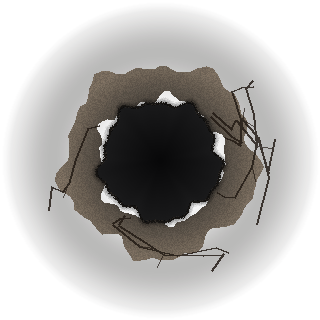
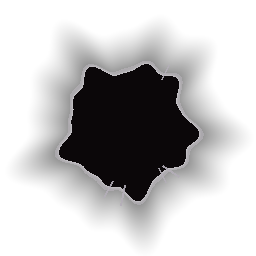
Move the shot tape off the total and replace the hole art.
The old orange-dot and connector look is gone. Three gray punched holes sit in the empty gaps, and one caution strip stays in the top-right corner, clear of the name, total, and points. The SET chip next to Took is gone on a shot.

diff --git a/apps/web/src/styles.css b/apps/web/src/styles.css
@@ -705,26 +705,22 @@ select { background: #170d27; color: var(--ink); border: 1px solid rgba(185,128,
 .tt-recap { display: flex; flex-direction: column; justify-content: center; gap: 16px; width: min(520px, 100%); }
 .tt-team { position: relative; padding: 18px 16px 16px; background: rgba(255,255,255,.05); box-shadow: inset 0 0 0 1px rgba(185,128,255,.2); clip-path: polygon(10px 0, 100% 0, calc(100% - 10px) 100%, 0 100%); }
 .tt-face { display: grid; grid-template-columns: minmax(0, 1fr) auto; grid-template-areas: "name total" "line total" "players total" "bar bar"; align-items: center; gap: 8px 16px; position: relative; z-index: 5; }
-/* On-notice shot card: dim the face, red border, raster holes, then the tape X. Full fidelity at every width, including 360–390. */
+/* On-notice shot card: dim the face, red border, three raster holes, then the corner tape. Full fidelity at every width, including 360–390. */
 .tt-team > :not(.shot-holes):not(.caution-x):not(.shroud) { position: relative; z-index: 5; }
 .tt-team.taped { clip-path: none; overflow: visible; }
 .tt-team.notice, .tt-team.mine.notice { clip-path: none; overflow: visible; border: 1px solid #FF4D4D; box-shadow: none; }
 .tt-team.notice .tt-face { filter: brightness(.85); }
-.tt-team.notice.tape-in { animation: hole-jolt 90ms linear 0ms, hole-jolt 90ms linear 90ms, hole-jolt 90ms linear 180ms, hole-jolt 90ms linear 270ms; }
+.tt-team.notice.tape-in { animation: hole-jolt 90ms linear 0ms, hole-jolt 90ms linear 90ms, hole-jolt 90ms linear 180ms; }
 @keyframes hole-jolt { 0%, 100% { transform: translate3d(0, 0, 0); } 45% { transform: translate3d(3px, 0, 0); } }
 .shot-holes { position: absolute; inset: 0; z-index: 1; pointer-events: none; }
-.shot-holes img { position: absolute; width: 34px; height: 34px; transform: translate(-50%, -50%); pointer-events: none; }
+.shot-holes img { position: absolute; width: 32px; height: 32px; transform: translate(-50%, -50%) rotate(var(--rot, 0deg)) scale(var(--s, 1)); pointer-events: none; }
 .tt-team.notice.tape-in .shot-holes img { animation: hole-punch 120ms cubic-bezier(.2, .8, .2, 1) both; }
-@keyframes hole-punch { 0% { opacity: 0; transform: translate(-50%, -50%) scale(1.4); } 12% { opacity: 1; transform: translate(-50%, -50%) scale(1.32); } 100% { opacity: 1; transform: translate(-50%, -50%) scale(1); } }
-.caution-x { position: absolute; z-index: 4; inset: -8px; pointer-events: none; filter: drop-shadow(0 2px 2px rgba(0,0,0,.4)); }
-.caution-x .tape { position: absolute; left: 50%; top: 50%; width: 104%; height: 34px; object-fit: cover; transform-origin: center center; }
-.caution-x .tape.a { transform: translate(-50%, -50%) rotate(-12deg); }
-.caution-x .tape.b { transform: translate(-50%, -50%) rotate(12deg); }
-.tt-team.tape-in .caution-x .tape { animation-duration: 260ms; animation-timing-function: cubic-bezier(.2, 1.3, .3, 1); animation-delay: 390ms; animation-fill-mode: both; }
-.tt-team.tape-in .caution-x .tape.a { animation-name: tape-slap-a; }
-.tt-team.tape-in .caution-x .tape.b { animation-name: tape-slap-b; }
-@keyframes tape-slap-a { from { opacity: 0; transform: translate(-50%, -50%) rotate(-20deg) scale(1.15); } to { opacity: 1; transform: translate(-50%, -50%) rotate(-12deg) scale(1); } }
-@keyframes tape-slap-b { from { opacity: 0; transform: translate(-50%, -50%) rotate(20deg) scale(1.15); } to { opacity: 1; transform: translate(-50%, -50%) rotate(12deg) scale(1); } }
+@keyframes hole-punch { 0% { opacity: 0; transform: translate(-50%, -50%) rotate(var(--rot, 0deg)) scale(calc(var(--s, 1) * 1.4)); } 12% { opacity: 1; transform: translate(-50%, -50%) rotate(var(--rot, 0deg)) scale(calc(var(--s, 1) * 1.28)); } 100% { opacity: 1; transform: translate(-50%, -50%) rotate(var(--rot, 0deg)) scale(var(--s, 1)); } }
+/* One strip across the top-right corner. It hangs off the card and stays above the name, the total, and the points. */
+.caution-x { position: absolute; z-index: 4; top: -8px; right: -8px; width: 30%; height: 14px; opacity: 0.95; pointer-events: none; transform: rotate(-6deg); transform-origin: 100% 0; filter: drop-shadow(0 2px 2px rgba(0,0,0,.4)); }
+.caution-x .tape { display: block; width: 100%; height: 100%; object-fit: cover; }
+.tt-team.tape-in .caution-x { animation: tape-slap 260ms cubic-bezier(.2, 1.3, .3, 1) 300ms both; }
+@keyframes tape-slap { from { opacity: 0; transform: rotate(8deg) scale(1.15); } to { opacity: 0.95; transform: rotate(-6deg) scale(1); } }
 /* Tape after a non-losing shot, off once they make their books. A hand-1 loss shows the tape and the sheet.
    Later eliminations are the sheet alone. RIP, the police lights, and the time-of-death caption stay at full fidelity at every width, including 360–390. */
 .shroud {
@@ -791,10 +787,10 @@ select { background: #170d27; color: var(--ink); border: 1px solid rgba(185,128,
 .tt-team.shrouded .tt-line b.neg { color: #8e2436; }
 .tt-team.shrouded .tt-line b.pos { color: #1c6a34; }
 .tt-team.shrouded .tt-players { color: #4a382c; }
-.tt-recap.crowded .caution-x .tape { height: 24px; }
+.tt-recap.crowded .caution-x { height: 16px; width: 42%; }
 .tt-recap.crowded .shot-holes img { width: 28px; height: 28px; }
 @keyframes sheet-drop { 0% { opacity: 0; transform: translate3d(0, -108%, 0); } 100% { opacity: 1; transform: none; } }
-@media (prefers-reduced-motion: reduce) { .tt-team.notice.tape-in, .tt-team.tape-in .caution-x .tape, .tt-team.notice.tape-in .shot-holes img, .tt-team.sheet-in .shroud { animation: none; } }
+@media (prefers-reduced-motion: reduce) { .tt-team.notice.tape-in, .tt-team.tape-in .caution-x, .tt-team.notice.tape-in .shot-holes img, .tt-team.sheet-in .shroud { animation: none; } }
 @media (prefers-reduced-motion: reduce) { .tod span { animation: none; opacity: 1; } }
 .tt-team.mine { background: rgba(245,197,66,.08); box-shadow: inset 3px 0 0 var(--gold), inset 0 0 0 1px rgba(245,197,66,.25); }
 .tt-team-name { grid-area: name; display: flex; flex-direction: column; gap: 4px; }

diff --git a/apps/web/src/Intermission.tsx b/apps/web/src/Intermission.tsx
@@ -45,14 +45,14 @@ export function calloutsFor(st: GameState, mySide: number, names: string[]): Cal
 }
 
 /**
- * Four punched holes in the lower-left clear space: below the bid line, left of the total.
- * Raster art in /shot/hole.png (original, no third-party license).
+ * Three punched holes in empty card space. Raster art in /shot/hole.png
+ * (original render, no third-party illustration). Rotation and scale are fixed
+ * per slot so a reconnect does not reshuffle them.
  */
-const HOLES: readonly (readonly [string, string])[] = [
-  ['10%', '86%'],
-  ['26%', '90%'],
-  ['42%', '84%'],
-  ['56%', '88%'],
+const HOLES: readonly { x: string; y: string; rot: number; scale: number }[] = [
+  { x: '60%', y: '28%', rot: -14, scale: 0.88 }, // gap between the name and the total
+  { x: '11%', y: '93%', rot: 18, scale: 0.85 },  // lower-left, at the start of the bar
+  { x: '88%', y: '72%', rot: 6, scale: 0.85 },   // mid-right, under the total
 ];
 
 export function Intermission({
@@ -111,7 +111,7 @@ export function Intermission({
   useEffect(() => {
     if (!noticeIn || punched.current === sirenKey) return;
     punched.current = sirenKey;
-    haptic([30, 60, 30, 60, 30, 60, 30, 90, 60], 'shot-card');
+    haptic([30, 60, 30, 60, 30, 90, 60], 'shot-card');
   }, [noticeIn, sirenKey]);
 
   return (
@@ -161,8 +161,8 @@ export function Intermission({
                 <div key={s.side} className={`tt-team${s.side === mySide ? ' mine' : ''}${shot ? ' blast' : ''}${cover.tape ? ' taped' : ''}${cover.tape && justShot ? ' tape-in' : ''}${notice ? ' notice' : ''}${cover.sheet ? ' shrouded' : ''}${cover.sheet && justShot ? ' sheet-in' : ''}`} data-testid={`recap-side-${s.side}`} data-blast={shot ? 'yes' : 'no'} data-tape={cover.tape ? 'yes' : 'no'} data-sheet={cover.sheet ? 'yes' : 'no'} data-siren={cover.siren ? 'yes' : 'no'}>
                   {notice && (
                     <div className="shot-holes" data-testid={`recap-holes-${s.side}`} aria-hidden="true">
-                      {HOLES.map(([x, y], i) => (
-                        <img key={i} src="/shot/hole.png" alt="" style={{ left: x, top: y, animationDelay: `${i * 90}ms` }} />
+                      {HOLES.map((h, i) => (
+                        <img key={i} src="/shot/hole.png" alt="" style={{ left: h.x, top: h.y, animationDelay: `${i * 90}ms`, ['--rot' as string]: `${h.rot}deg`, ['--s' as string]: String(h.scale) }} />
                       ))}
                     </div>
                   )}
@@ -174,8 +174,7 @@ export function Intermission({
                   )}
                   {cover.tape && (
                     <div className="caution-x" data-testid={`recap-tape-${s.side}`} aria-hidden="true">
-                      <img className="tape a" src="/shot/tape.png" alt="" />
-                      <img className="tape b" src="/shot/tape.png" alt="" />
+                      <img className="tape" src="/shot/tape.png" alt="" />
                     </div>
                   )}
                   <div className="tt-face">
@@ -194,7 +193,7 @@ export function Intermission({
                   </div>
                   <div className="tt-line" data-testid={`recap-line-${s.side}`}>
                     <span>{bidPart}</span><i>·</i><span>Took {s.tricks}</span>
-                    {main && main.kind !== 'books' && !(notice && main.kind === 'set') && <><i>·</i><em className={`rchip ${main.kind}`}>{main.text}</em></>}
+                    {main && main.kind !== 'books' && !(shot && main.kind === 'set') && <><i>·</i><em className={`rchip ${main.kind}`}>{main.text}</em></>}
                     <i>·</i><b className={s.points < 0 ? 'neg' : 'pos'} data-testid={`recap-points-${s.side}`}>{signed(s.points)}</b>
                   </div>
                   <ul className="tt-players" data-testid={`recap-players-${s.side}`}>

diff --git a/apps/web/test/scorecard-shroud.test.ts b/apps/web/test/scorecard-shroud.test.ts
@@ -70,15 +70,19 @@ describe('scorecard caution tape and shroud', () => {
     expect(html).toContain('class="tt-team blast taped tape-in notice"');
     expect(html).toContain('data-testid="recap-tape-1"');
     expect(html).toContain('src="/shot/tape.png"');
-    expect(html).toContain('class="tape a"');
-    expect(html).toContain('class="tape b"');
+    expect(html.match(/src="\/shot\/tape.png"/g)).toHaveLength(1);
+    expect(html).not.toContain('class="tape a"');
+    expect(html).not.toContain('class="tape b"');
     expect(html).toContain('data-testid="recap-holes-1"');
     expect(html).toContain('src="/shot/hole.png"');
-    expect(html.match(/src="\/shot\/hole.png"/g)).toHaveLength(4);
+    expect(html.match(/src="\/shot\/hole.png"/g)).toHaveLength(3);
     expect(html).toContain('animation-delay:0ms');
     expect(html).toContain('animation-delay:90ms');
     expect(html).toContain('animation-delay:180ms');
-    expect(html).toContain('animation-delay:270ms');
+    expect(html).not.toContain('animation-delay:270ms');
+    expect(html).toContain('left:60%');
+    expect(html).toContain('left:11%');
+    expect(html).toContain('left:88%');
     expect(html).toContain('data-testid="recap-shot-stamp-1"');
     expect(html).toContain('>SHOT<');
     expect(html).toContain('data-testid="recap-notice-1"');
@@ -182,14 +186,17 @@ describe('scorecard caution tape and shroud', () => {
 
   it('keeps the tape and the sheet at phone widths, and skips only their entrance when motion is reduced', () => {
     const css = readFileSync(new URL('../src/styles.css', import.meta.url), 'utf8');
-    expect(css).toContain('tape-slap-a');
-    expect(css).toContain('animation-duration: 260ms');
-    expect(css).toContain('cubic-bezier(.2, 1.3, .3, 1)');
+    expect(css).toContain('animation: tape-slap 260ms cubic-bezier(.2, 1.3, .3, 1)');
+    expect(css).toContain('opacity: 0.95');
     expect(css).toContain('brightness(.85)');
     expect(css).toContain('#FF4D4D');
-    expect(css).toContain('inset: -8px');
-    expect(css).toContain('rotate(-12deg)');
-    expect(css).toContain('rotate(12deg)');
+    expect(css).toContain('top: -8px');
+    expect(css).toContain('right: -8px');
+    expect(css).not.toContain('rotate(-12deg)');
+    expect(css).not.toContain('rotate(12deg)');
+    expect(css).not.toContain('ff6a1a');
+    expect(css).not.toContain('blast-cracks');
+    expect(css).not.toContain('muzzle-flash');
     expect(css).toContain('animation: sheet-drop');
     expect(css).toContain('top: calc(54px + env(safe-area-inset-top))');
     expect(css).toContain('.tt-chat-btn { position: fixed; z-index: 1025; top: calc(54px + env(safe-area-inset-top)); right: calc(8px + env(safe-area-inset-right));');
@@ -213,7 +220,7 @@ describe('scorecard caution tape and shroud', () => {
     expect(table).toContain('ran the rest');
     expect(table).not.toContain('Run it — cleared hands');
     const recapSrc = readFileSync(new URL('../src/Intermission.tsx', import.meta.url), 'utf8');
-    expect(recapSrc).toContain("haptic([30, 60, 30, 60, 30, 60, 30, 90, 60], 'shot-card')");
+    expect(recapSrc).toContain("haptic([30, 60, 30, 60, 30, 90, 60], 'shot-card')");
     expect(recapSrc).not.toContain('BlastMarks');
     expect(recapSrc).not.toContain('PELLETS');
     const tape = readFileSync(new URL('../public/shot/tape.png', import.meta.url));
